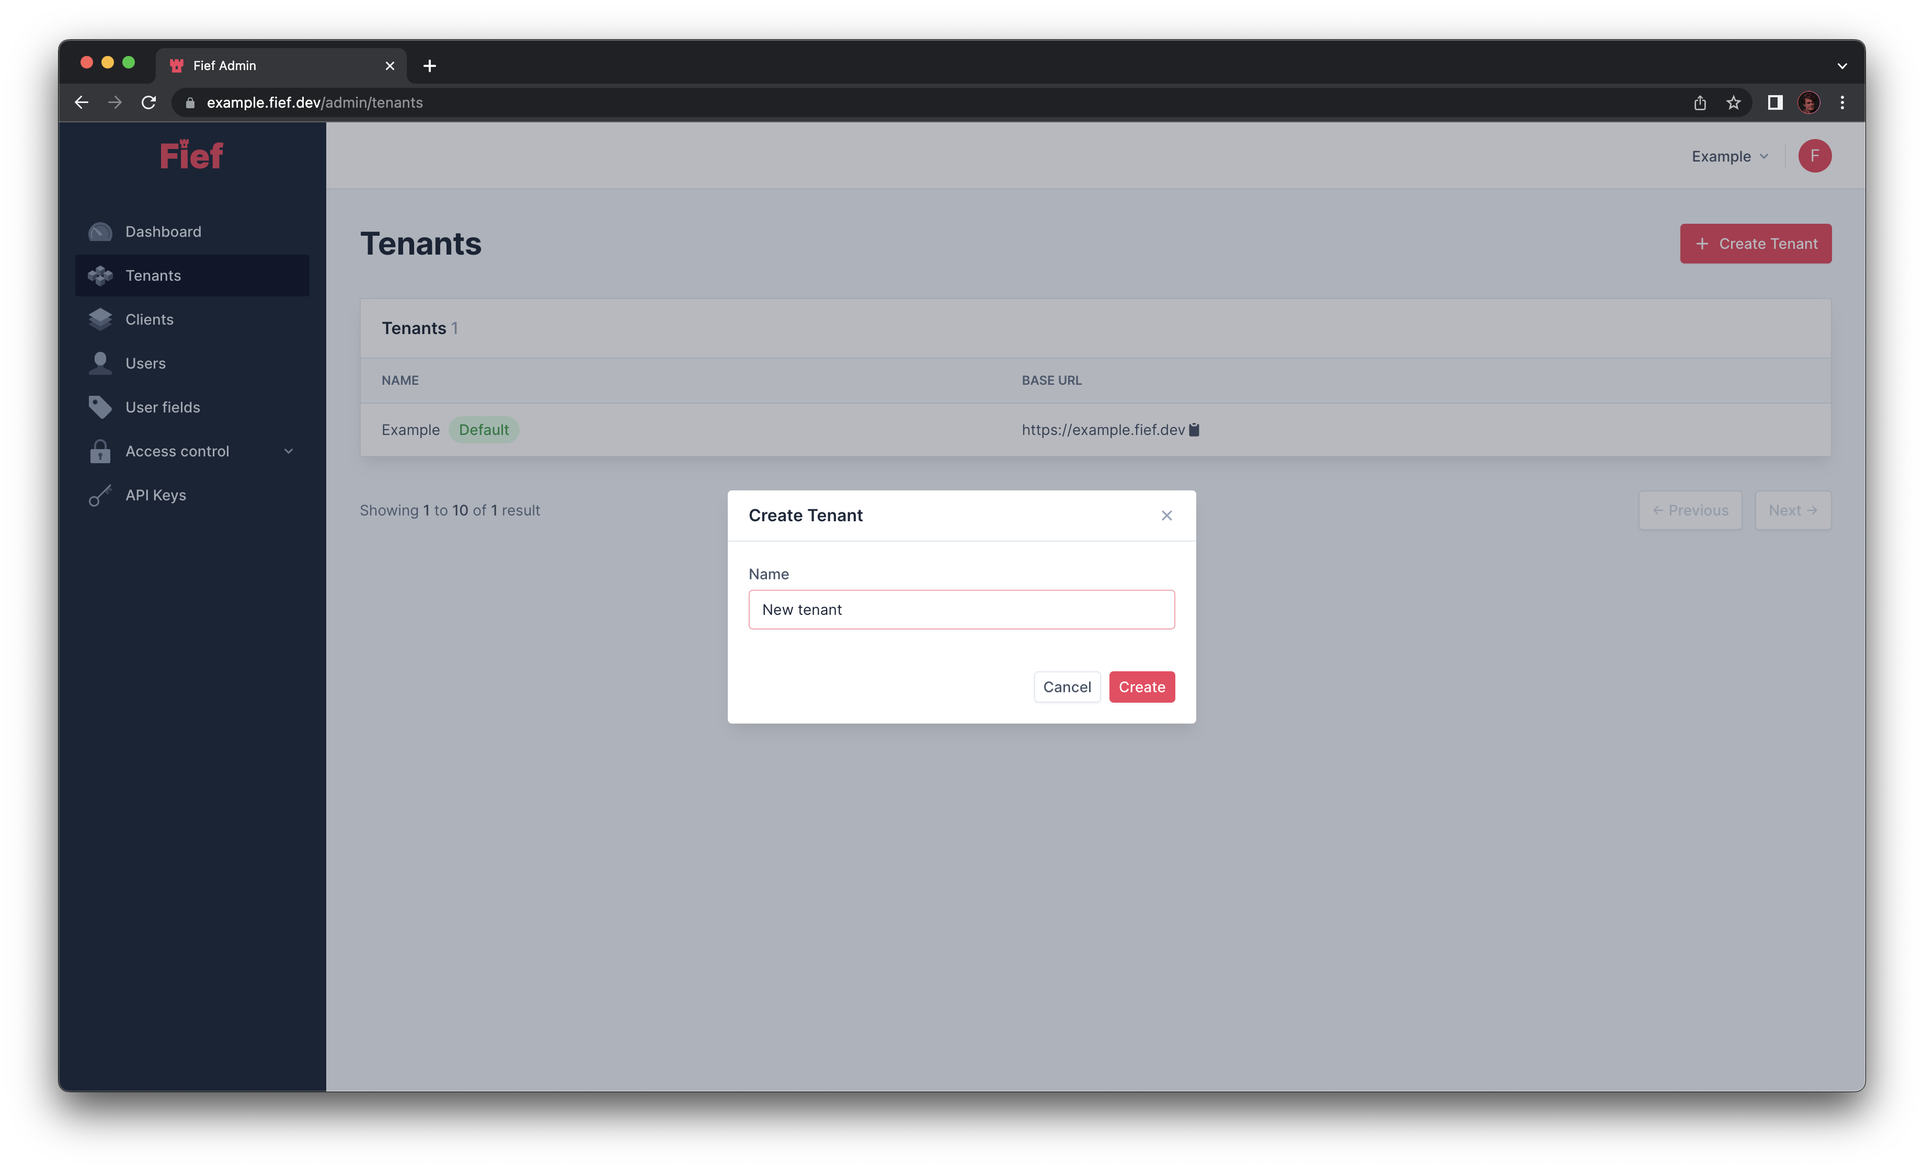
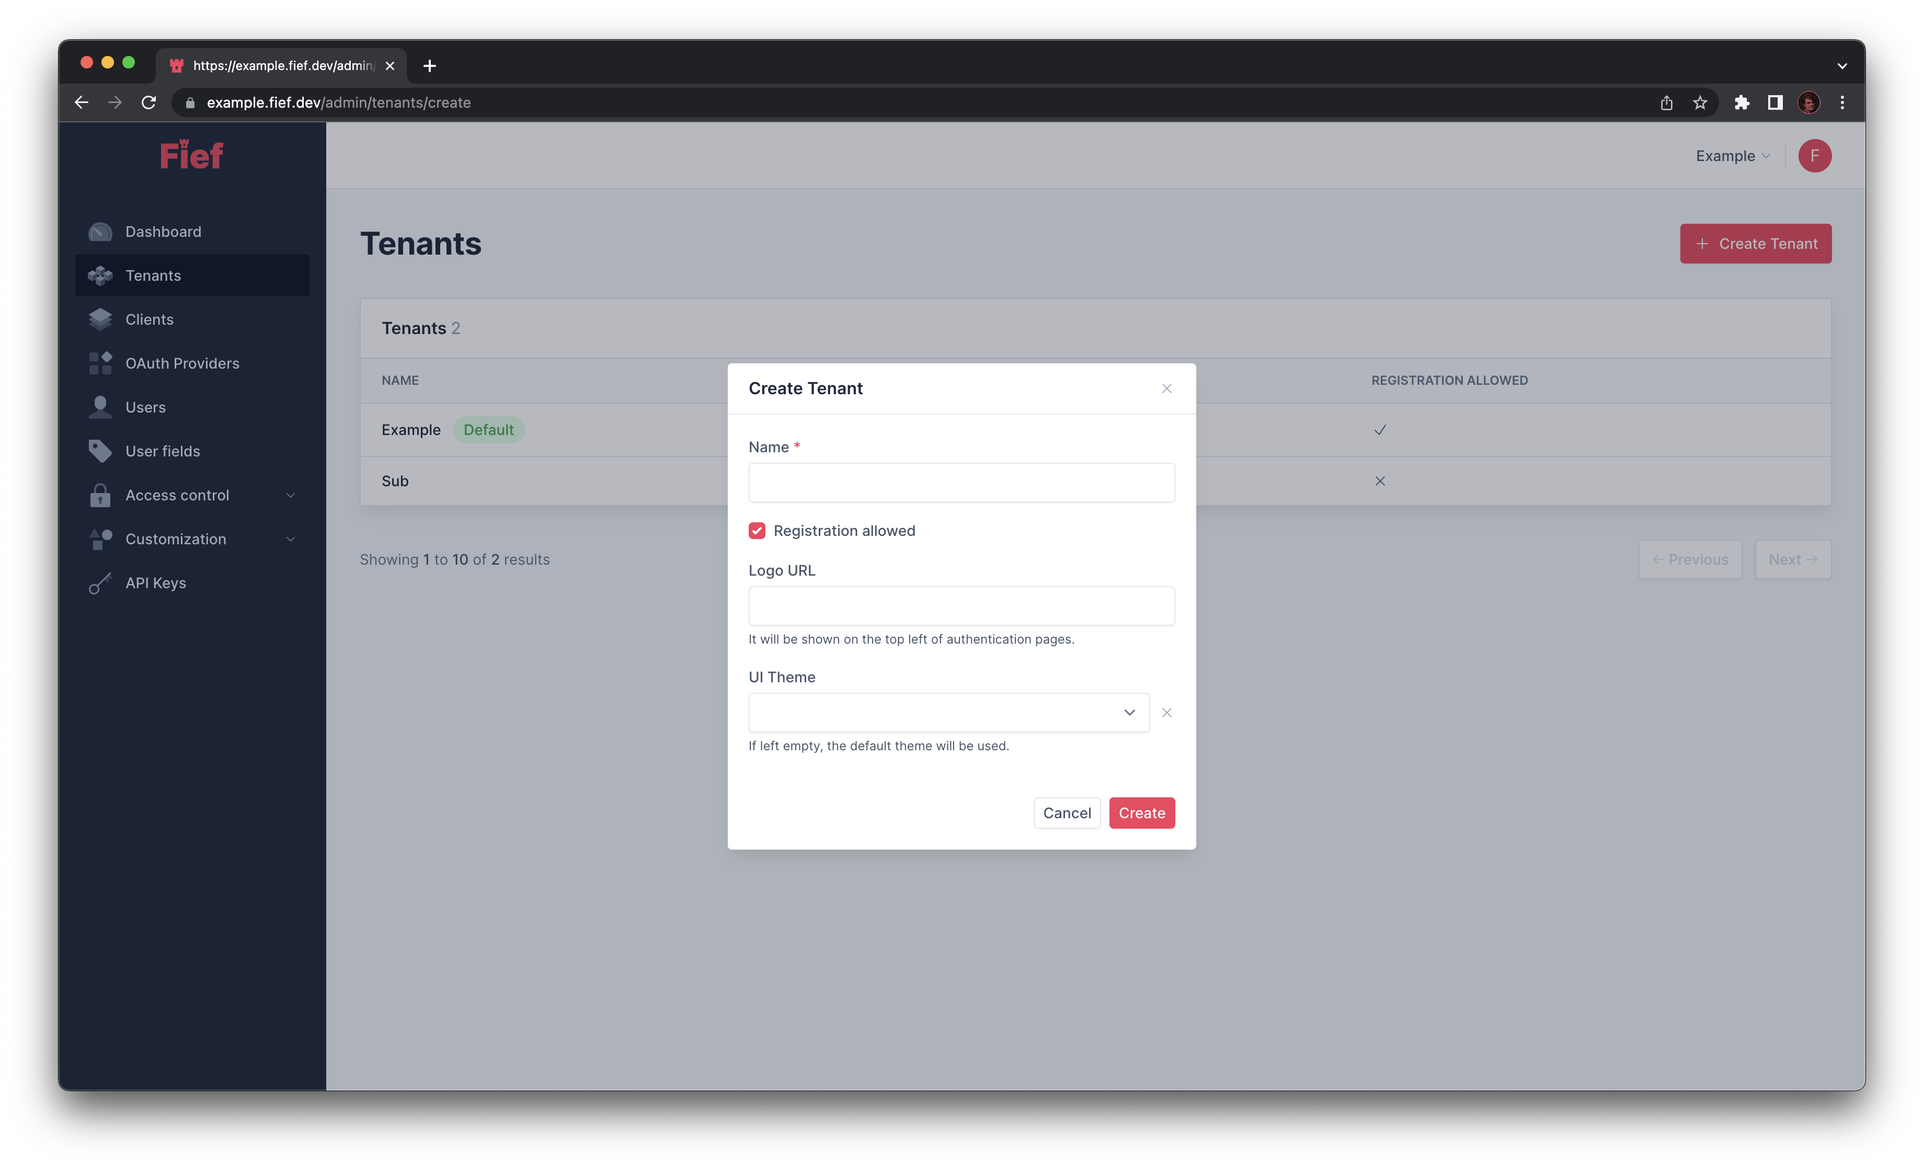
Add documentation about themes

diff --git a/docs/configure/customization/themes.md b/docs/configure/customization/themes.md
@@ -1,0 +1,114 @@
+# Themes
+
+Fief comes with its own authentication pages for login, registration and reset password. You can customize them so they match the brand of your application. This is done through a system of **themes**. They can either be set globally, which is the most common case, or you can assign them to a specific [tenant](../tenants.md) if you need to customize the look-and-feel per tenant.
+
+When your workspace is created, Fief will always create a **Default** theme.
+
+![Themes from admin dashboard](/assets/images/admin-themes.png)
+
+## Create a new theme
+
+You can create a new theme by clicking the **Create Theme** button. A modal will open where you'll be able to input its name. You'll then be taken to the [theme edition page](#edit-an-existing-theme).
+
+![Create theme from admin dashboard](/assets/images/admin-themes-create.png)
+
+## Set as default
+
+Unless specified otherwise, [tenants](../tenants.md) will use the theme specified as default. To change the default theme, click on the **Set as default** button in front of the theme you want to make default.
+
+![Create theme from admin dashboard](/assets/images/admin-themes-set-default.png)
+
+## Edit an existing theme
+
+You can edit an existing theme by clicking on the **Update** button in its row. An editor will open, with the customization parameters on the left and a preview on the right.
+
+![Edit theme from admin dashboard](/assets/images/admin-themes-edit.png)
+
+You can switch the page to preview using the select menu above the preview.
+
+![Switch theme preview from admin dashboard](/assets/images/admin-themes-switch-preview.png)
+
+## Customization parameters
+
+You'll find below a description of the customizable parameters and what is their effect.
+
+### Themes's name
+
+This is the name of the theme. It won't be shown to the end-user, it's just a way for you to easily identify them.
+
+### Primary colors
+
+Primary colors correspond to the colors of the buttons, links and form focus borders. This is usually your "brand color".
+
+<figure markdown>
+  ![Theme primary color](/assets/images/admin-themes-primary.png)
+  <figcaption>Primary color</figcaption>
+</figure>
+
+<figure markdown>
+  ![Theme primary hover color](/assets/images/admin-themes-primary-hover.png)
+  <figcaption>Hover primary color</figcaption>
+</figure>
+
+<figure markdown>
+  ![Theme primary light color](/assets/images/admin-themes-primary-light.png)
+  <figcaption>Light primary color</figcaption>
+</figure>
+
+### Form input colors
+
+Form input colors respectively control the color of the text and the background of the form inputs.
+
+<figure markdown>
+  ![Form input colors](/assets/images/admin-themes-form-inputs.png)
+  <figcaption>Form inputs colors</figcaption>
+</figure>
+
+### Light colors
+
+Light colors control the color of the borders, in particular the ones on form inputs.
+
+<figure markdown>
+  ![Theme light color](/assets/images/admin-themes-light.png)
+  <figcaption>Light color</figcaption>
+</figure>
+
+<figure markdown>
+  ![Theme light hover color](/assets/images/admin-themes-light-hover.png)
+  <figcaption>Hover light color</figcaption>
+</figure>
+
+### Text colors
+
+Text colors control the color of the content and headings.
+
+<figure markdown>
+  ![Text color](/assets/images/admin-themes-text.png)
+  <figcaption>Text color</figcaption>
+</figure>
+
+<figure markdown>
+  ![Accent text color](/assets/images/admin-themes-text-accent.png)
+  <figcaption>Accent text color</figcaption>
+</figure>
+
+### Background color
+
+Background color control the color of the whole background.
+
+<figure markdown>
+  ![Backgroud color](/assets/images/admin-themes-background.png)
+  <figcaption>Background color</figcaption>
+</figure>
+
+### Fonts
+
+There are three parameters to control the fonts:
+
+* Base font size: base size of the text, in `px`. Other font sizes (like headings) are proportional to this size.
+* Font family: the font to use. It should be a valid [CSS `font-family` property](https://developer.mozilla.org/en-US/docs/Web/CSS/font-family).
+* CSS font URL: allows you to import custom fonts, like the ones from [Google Fonts](https://fonts.google.com/). The URL should point to a valid CSS file with `@font-face` instructions.
+
+The example below shows you the result with `14`, `'Merriweather', serif`, `https://fonts.googleapis.com/css2?family=Merriweather&display=swap`:
+
+![Fonts](/assets/images/admin-themes-fonts.png)

diff --git a/docs/going-further/oauth-provider-token.md b/docs/going-further/oauth-provider-token.md
@@ -1,14 +1,14 @@
 # OAuth Provider token
 
-When configuring an [OAuth Provider](../admin-dashboard/oauth-providers.md) for your app, you allow users to authenticate using their existing account on this particular service.
+When configuring an [OAuth Provider](../configure/oauth-providers.md) for your app, you allow users to authenticate using their existing account on this particular service.
 
-But there is more: when you do this, and if you asked for the right [scopes](../admin-dashboard/oauth-providers.md#scopes), you gain access to the API of this provider, so you can make actions **on behalf of the user**. For example, you could build a search engine indexing files from their Google Drive or an application to help manage GitHub issues.
+But there is more: when you do this, and if you asked for the right [scopes](../configure/oauth-providers.md#scopes), you gain access to the API of this provider, so you can make actions **on behalf of the user**. For example, you could build a search engine indexing files from their Google Drive or an application to help manage GitHub issues.
 
 When a user authenticates using their external account, Fief automatically retrieves a valid **access token** that can be used to query the API of the external service.
 
 ## Getting a fresh access token
 
-To help you integrate clever workflows into your application, Fief Admin API allows you to retrieve an access token for a given user and OAuth Provider. All you need is an [Admin API key](../admin-dashboard/api-keys.md), the ID of the OAuth Provider (the one in Fief, not the Client ID) and the ID of the user. Then, you just have to make an HTTP request like this:
+To help you integrate clever workflows into your application, Fief Admin API allows you to retrieve an access token for a given user and OAuth Provider. All you need is an [Admin API key](../configure/api-keys.md), the ID of the OAuth Provider (the one in Fief, not the Client ID) and the ID of the user. Then, you just have to make an HTTP request like this:
 
 ```bash
 curl \

diff --git a/docs/integrate/python/fastapi.md b/docs/integrate/python/fastapi.md
@@ -19,7 +19,7 @@ pip install "fief-client[fastapi]"
     - [x] You have a separate frontend, like a JavaScript or mobile app, that'll take care of the OAuth2 flow.
 
 !!! abstract "Prerequisites"
-    - [x] Check that the following [Redirect URI](../../admin-dashboard/clients.md#redirect-uris) is allowed on your Fief Client: `http://localhost:8000/docs/oauth2-redirect`
+    - [x] Check that the following [Redirect URI](../../configure/clients.md#redirect-uris) is allowed on your Fief Client: `http://localhost:8000/docs/oauth2-redirect`
 
 In this first example, we'll leverage the interactive documentation generated by FastAPI to perform the OAuth2 authentication. The goal here is just to show you **how to protect your API route with a Fief access token**.
 
@@ -111,7 +111,7 @@ If one of the required scope is missing on the access token, a `403 Forbidden` e
 
 ### Checking for permissions
 
-Similary, you can make your endpoint require the user to be granted a list of [**permissions**](../../admin-dashboard/access-control.md). Simply add this list of permissions as a keyword parameter of the `authenticated` dependency.
+Similary, you can make your endpoint require the user to be granted a list of [**permissions**](../../configure/access-control.md). Simply add this list of permissions as a keyword parameter of the `authenticated` dependency.
 
 ```py title="app.py" hl_lines="26"
 --8<-- "examples/python/fastapi/permissions.py"
@@ -134,7 +134,7 @@ Sometimes, you need to have a route retrieve the user if there is one authentica
     - [x] Your application is intended to be used in a browser.
 
 !!! abstract "Prerequisites"
-    - [x] Allow the following [Redirect URI](../../admin-dashboard/clients.md#redirect-uris) on your Fief Client: `http://localhost:8000/auth-callback`
+    - [x] Allow the following [Redirect URI](../../configure/clients.md#redirect-uris) on your Fief Client: `http://localhost:8000/auth-callback`
 
 --8<-- "reusables/web-application-motivation.md"
 

diff --git a/docs/integrate/python/index.md b/docs/integrate/python/index.md
@@ -13,7 +13,7 @@ pip install fief-client
 ## Create a `Fief` client
 
 !!! abstract "Prerequisites"
-    - [x] Allow the following [Redirect URI](../../admin-dashboard/clients.md#redirect-uris) on your Fief Client: `http://localhost:8000/callback`
+    - [x] Allow the following [Redirect URI](../../configure/clients.md#redirect-uris) on your Fief Client: `http://localhost:8000/callback`
 
 The Fief client provides all the necessary methods to manage OAuth2 authentication, validate access tokens and refresh them.
 
@@ -23,13 +23,13 @@ The Fief client provides all the necessary methods to manage OAuth2 authenticati
 
 1. **Base URL of your Fief tenant**
 
-    You can find it in the admin dashboard, in the **Tenants** list. [More info](../../admin-dashboard/tenants.md#base-url)
+    You can find it in the admin dashboard, in the **Tenants** list. [More info](../../configure/tenants.md#base-url)
 
     ![Find base URL in admin dashboard](/assets/images/admin-tenants.png)
 
 2. **ID of your Fief client**
 
-    You can find it in the admin dashboard, in the **Clients** list. [More info](../../admin-dashboard/clients.md)
+    You can find it in the admin dashboard, in the **Clients** list. [More info](../../configure/clients.md)
 
     ![Find Client ID in admin dashboard](/assets/images/admin-clients-detail.png)
 
@@ -38,7 +38,7 @@ The Fief client provides all the necessary methods to manage OAuth2 authenticati
 
 3. **Secret of your Fief client**
 
-    You can find it in the admin dashboard, in the **Clients** list. [More info](../../admin-dashboard/clients.md)
+    You can find it in the admin dashboard, in the **Clients** list. [More info](../../configure/clients.md)
 
     ![Find Client Secret in admin dashboard](/assets/images/admin-clients-detail.png)
 

diff --git a/docs/going-further/id-token-encryption.md b/docs/going-further/id-token-encryption.md
@@ -2,7 +2,7 @@
 
 In [Understand OAuth2](../getting-started/oauth2.md#access-token-and-id-token) section, we said that, after a successful authentication, you get two different tokens: an **access token** and an **ID token**.
 
-The ID token is a value containing all the basic information about the authenticated user, like its id, email and profile information from [user fields](../admin-dashboard/user-fields.md). For security and convenience, this data is encoded as a **JSON Web Token (JWT)**.
+The ID token is a value containing all the basic information about the authenticated user, like its id, email and profile information from [user fields](../configure/user-fields.md). For security and convenience, this data is encoded as a **JSON Web Token (JWT)**.
 
 Before showing how to enable its encryption, let's explain how JWT work and why encryption is interesting.
 
@@ -106,7 +106,7 @@ Now, we have the best of both worlds: we can check the **authenticity** of the d
 
 ## Enable ID Token encryption
 
-In Fief, ID Token encryption can be enabled per [client](../admin-dashboard/clients.md). From the admin dashboard, click on the client on which you want to enable ID Token encryption and, in its detail modal, click on the **Generate key** button.
+In Fief, ID Token encryption can be enabled per [client](../configure/clients.md). From the admin dashboard, click on the client on which you want to enable ID Token encryption and, in its detail modal, click on the **Generate key** button.
 
 ![Enable ID Token encryption on a client](/assets/images/id-token-encryption-enable.png)
 

diff --git a/docs/configure/tenants.md b/docs/configure/tenants.md
@@ -20,13 +20,28 @@ Other tenants gets a path prefix, like *https://example.fief.dev/other-tenant*.
 
 ## Create a new tenant
 
-You can create a new tenant by clicking the **Create Tenant** button. A modal will open where you'll be able to input its name. The [base URL](#base-url) is automatically generated from the name.
+You can create a new tenant by clicking the **Create Tenant** button. A modal will open where you'll be able to input:
+
+* Its name.
+* If [user registration is allowed](#disable-user-registration).
+
+The [base URL](#base-url) is automatically generated from the name.
+
+Optionally, you can also set:
+
+* A logo URL that will be shown on the top-left of authentication pages.
+* A [UI theme](./customization/themes.md) to use when users authenticate with this tenant. If left empty, the theme set as default is used.
+
 
 ![Create tenant from admin dashboard](/assets/images/admin-tenants-create.png)
 
 ## Edit an existing tenant
 
-If you click on one of the tenant in the list, you'll see its details on the right and be able to change its properties.
+If you click on one of the tenant in the list, you'll see its details on the right.
+
+![View tenant details from admin dashboard](/assets/images/admin-tenants-view.png)
+
+If you click on the **Edit Tenant** button, you'll be able to update its properties.
 
 ![Edit tenant from admin dashboard](/assets/images/admin-tenants-edit.png)
 

diff --git a/docs/integrate/javascript/frontend/browser.md b/docs/integrate/javascript/frontend/browser.md
@@ -38,8 +38,8 @@ However, if you don't use a JavaScript bundler, like Webpack, you can include th
 
 !!! abstract "Prerequisites"
     - [x] Make sure your Fief Client is [Public](../../
-    ../admin-dashboard/clients.md#public-clients).
-    - [x] Allow the following [Redirect URI](../../../admin-dashboard/clients.md#redirect-uris) on your Fief Client: `http://localhost:8080/callback.html`
+    ../configure/clients.md#public-clients).
+    - [x] Allow the following [Redirect URI](../../../configure/clients.md#redirect-uris) on your Fief Client: `http://localhost:8080/callback.html`
     - [x] Install [http-server](https://www.npmjs.com/package/http-server), a simple Node.js HTTP server: `npm i --global http-server`
 
 In this example, we'll show you a very simple HTML and JavaScript application to perform the OAuth2 authentication. We'll define two pages:
@@ -68,7 +68,7 @@ Let's see the first one:
     Notice here that we omit the **Client Secret**. Indeed, the secret can't be kept safe in the browser: the end-user can easily find it in the source code.
 
     That's why we set the Fief Client as [Public](../../
-    ../admin-dashboard/clients.md#public-clients): we allow it to make authentication requests without the Client Secret.
+    ../configure/clients.md#public-clients): we allow it to make authentication requests without the Client Secret.
 
 4. **Fief helper for the browser**
 

diff --git a/docs/integrate/javascript/ssr/nextjs.md b/docs/integrate/javascript/ssr/nextjs.md
@@ -61,7 +61,7 @@ In Fief implementation, we provide **hooks** allowing you to retrieve the curren
 
 !!! abstract "Prerequisites"
     - [x] Bootstrap a Next.js project as described in [Automatic Setup](https://nextjs.org/docs/getting-started#automatic-setup) section of the Next.js documentation.
-    - [x] Allow the following [Redirect URI](../../../admin-dashboard/clients.md#redirect-uris) on your Fief Client: `http://localhost:3O00/auth-callback`
+    - [x] Allow the following [Redirect URI](../../../configure/clients.md#redirect-uris) on your Fief Client: `http://localhost:3O00/auth-callback`
 
 ### 1. Create a `fief` module
 
@@ -279,7 +279,7 @@ Now, let's try to go to the [**Castles / Index**](http://localhost:3000/castles)
 
 ![Next.js forbidden page](/assets/images/nextjs-castles-forbidden.png)
 
-If you [assign the correct permission to the user](../../../admin-dashboard/users.md#assign-a-permission) and authenticate again, you'll see the actual page.
+If you [assign the correct permission to the user](../../../configure/users.md#assign-a-permission) and authenticate again, you'll see the actual page.
 
 ![Next.js castles page](/assets/images/nextjs-castles.png)
 

diff --git a/docs/going-further/pkce.md b/docs/going-further/pkce.md
@@ -6,7 +6,7 @@ Proof Key for Code Exchange (PKCE) is an extension of the [OAuth2 protocol](http
 
 ## Rationale
 
-As we mentioned in a [previous section](../admin-dashboard/clients.md#public-clients), clients are considered **public** when the client secret can't be properly protected. This is usually the case for **JavaScript applications** and **mobile applications**, where the secret could be easily discovered in the source code.
+As we mentioned in a [previous section](../configure/clients.md#public-clients), clients are considered **public** when the client secret can't be properly protected. This is usually the case for **JavaScript applications** and **mobile applications**, where the secret could be easily discovered in the source code.
 
 In OAuth2 protocol, when the user has successfully authenticated, they are redirected to your application with a temporary code, called the **authorization code**. This code is then used by your application to call the Fief API and obtain a valid token in exchange. For this exchange to happen, the protocol requires that you provide the **client secret**, to prove that you are allowed to make such requests.
 

diff --git a/docs/integrate/javascript/index.md b/docs/integrate/javascript/index.md
@@ -20,13 +20,13 @@ const fief = new Fief({
 
 1. **Base URL of your Fief tenant**
 
-    You can find it in the admin dashboard, in the **Tenants** list. [More info](../../admin-dashboard/tenants.md#base-url)
+    You can find it in the admin dashboard, in the **Tenants** list. [More info](../../configure/tenants.md#base-url)
 
     ![Find base URL in admin dashboard](/assets/images/admin-tenants.png)
 
 2. **ID of your Fief client**
 
-    You can find it in the admin dashboard, in the **Clients** list. [More info](../../admin-dashboard/clients.md)
+    You can find it in the admin dashboard, in the **Clients** list. [More info](../../configure/clients.md)
 
     ![Find Client ID in admin dashboard](/assets/images/admin-clients-detail.png)
 
@@ -35,7 +35,7 @@ const fief = new Fief({
 
 3. **Secret of your Fief client**
 
-    You can find it in the admin dashboard, in the **Clients** list. [More info](../../admin-dashboard/clients.md)
+    You can find it in the admin dashboard, in the **Clients** list. [More info](../../configure/clients.md)
 
     ![Find Client Secret in admin dashboard](/assets/images/admin-clients-detail.png)
 

diff --git a/docs/self-hosting/environment-variables.md b/docs/self-hosting/environment-variables.md
@@ -168,7 +168,7 @@ A registration session is a cookie used to maintain the state of the registratio
 
 ### OAuth session
 
-An OAuth session is used to maintain the state of an OAuth authentication with an [OAuth Provider](../admin-dashboard/oauth-providers.md), from the moment they click on the *Sign in with...* button until they're redirected.
+An OAuth session is used to maintain the state of an OAuth authentication with an [OAuth Provider](../configure/oauth-providers.md), from the moment they click on the *Sign in with...* button until they're redirected.
 
 | Name                             | Description                              | Default            | Allowed values | Example |
 | -------------------------------- | ---------------------------------------- | ------------------ | -------------- | ------- |

diff --git a/docs/integrate/javascript/frontend/react.md b/docs/integrate/javascript/frontend/react.md
@@ -18,8 +18,8 @@ npm install @fief/fief
 !!! abstract "Prerequisites"
     - [x] You have a React project setup.
     - [x] Make sure your Fief Client is [Public](../../
-    ../admin-dashboard/clients.md#public-clients).
-    - [x] Allow the following [Redirect URI](../../../admin-dashboard/clients.md#redirect-uris) on your Fief Client: `http://localhost:3000/callback`
+    ../configure/clients.md#public-clients).
+    - [x] Allow the following [Redirect URI](../../../configure/clients.md#redirect-uris) on your Fief Client: `http://localhost:3000/callback`
 
 In this example, we'll show you how to use the components and hooks provided by Fief to authenticate users and protect routes using [React Router](https://reactrouter.com/).
 
